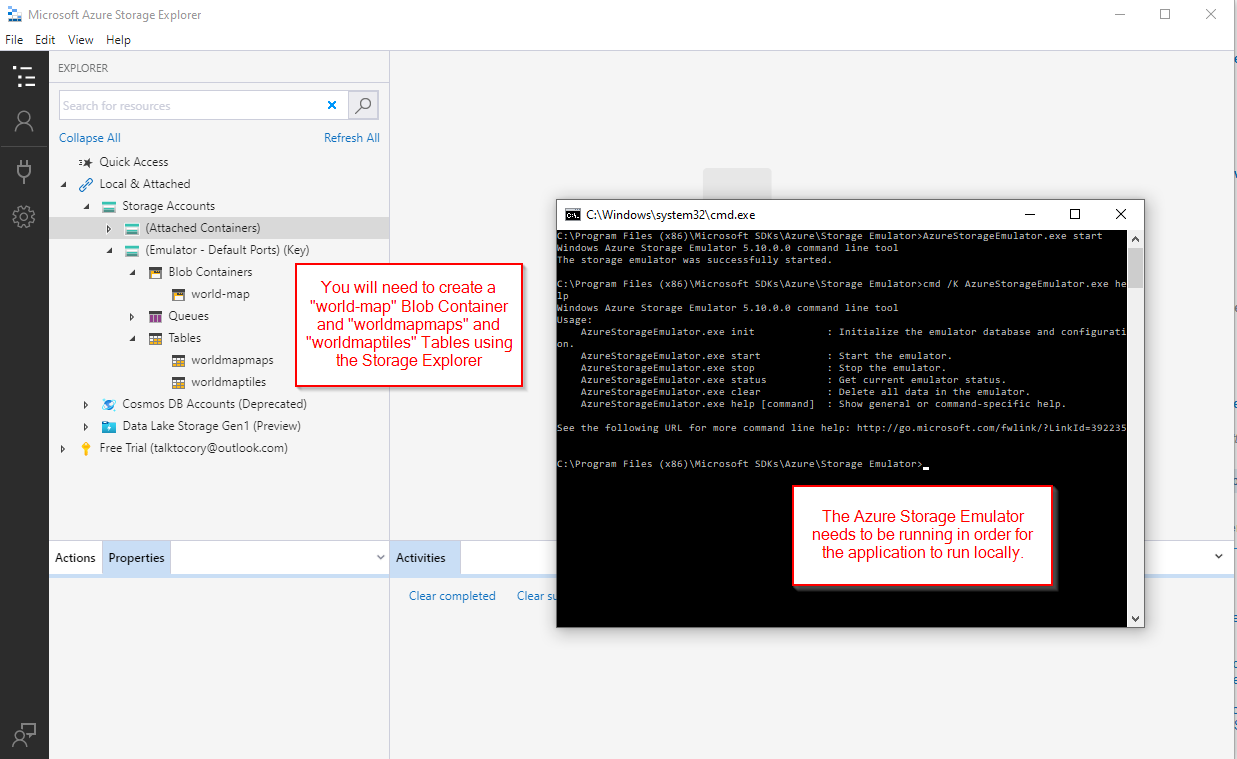
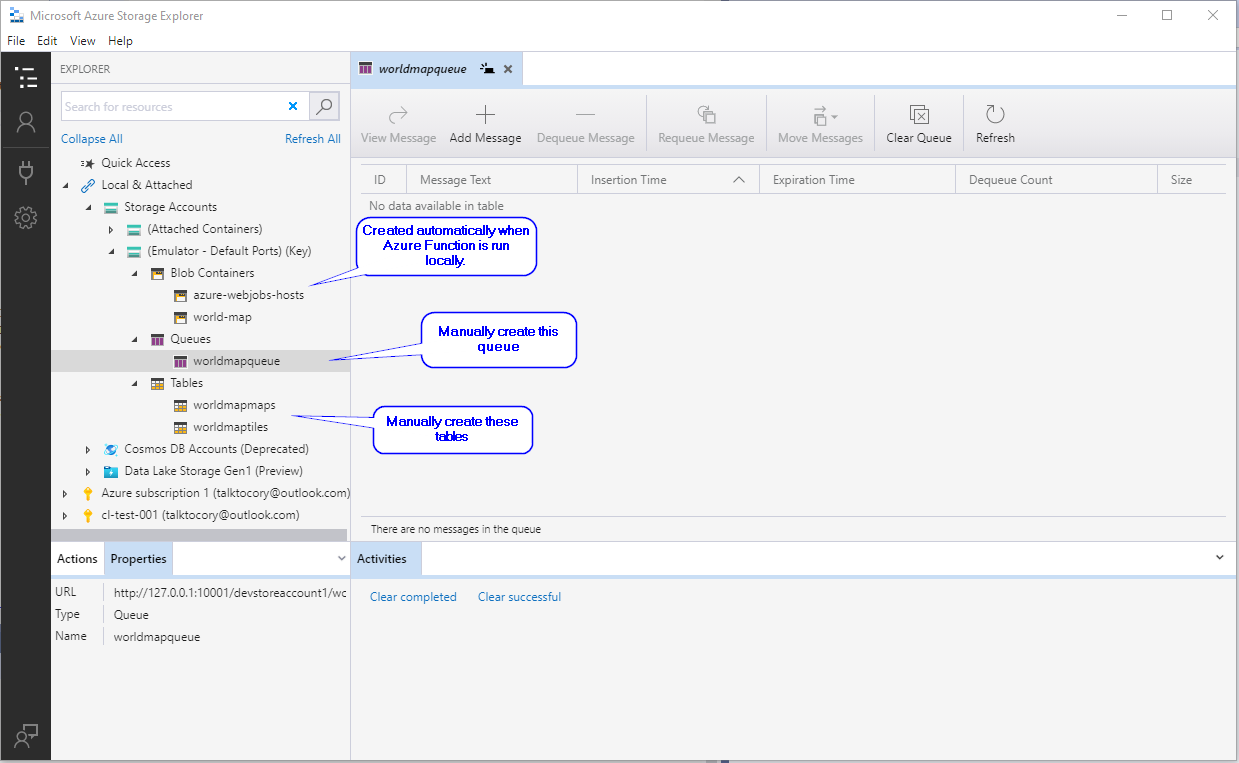
Queue is now being written to and Function is being triggered successfully.

diff --git a/src/CampaignKit.WorldMap.Core/Services/DefaultQueueStorageService.cs b/src/CampaignKit.WorldMap.Core/Services/DefaultQueueStorageService.cs
@@ -40,6 +40,17 @@ namespace CampaignKit.WorldMap.Core.Services
         /// </summary>
         private readonly ILogger _loggerService;
 
+        /// <summary>
+        /// Initializes a new instance of the <see cref="DefaultQueueStorageService"/> class.
+        /// </summary>
+        /// <param name="configuration">The configuration.</param>
+        /// <param name="loggerService">The logger service.</param>
+        public DefaultQueueStorageService(IConfiguration configuration, ILogger<DefaultTableStorageService> loggerService)
+        {
+            _configuration = configuration ?? throw new ArgumentNullException(nameof(configuration));
+            _loggerService = loggerService ?? throw new ArgumentNullException(nameof(loggerService));
+        }
+
         public async Task<bool> QueueMapForProcessing(Map map)
         {
             // Create a BlobServiceClient object which will be used to create a container client
@@ -49,7 +60,7 @@ namespace CampaignKit.WorldMap.Core.Services
             try
             {
                 var queueClient = queueServiceClient.GetQueueClient("worldmapqueue");
-                await queueClient.SendMessageAsync(map.MapId);
+                await queueClient.SendMessageAsync(System.Convert.ToBase64String(Encoding.UTF8.GetBytes(map.MapId)));
             }
             catch (Azure.RequestFailedException ex)
             {

diff --git a/README.md b/README.md
@@ -5,7 +5,11 @@ Service for managing world maps and associate them with Campaign Logger log entr
 # Development Environment
 
 ## SDKs
-- [.Net 5.0 SDK](https://dotnet.microsoft.com/download/visual-studio-sdks?utm_source=getdotnetsdk&utm_medium=referral)
+
+- CampaignKit.WorldMap.UI
+  - [.Net 5.0 SDK](https://dotnet.microsoft.com/download/visual-studio-sdks?utm_source=getdotnetsdk&utm_medium=referral)
+- CampaignKit.WorldMap.Core and CampaignKit.WorldMap.Functions
+  - [.Net 3.1 SDK](https://dotnet.microsoft.com/download/visual-studio-sdks?utm_source=getdotnetsdk&utm_medium=referral)
 
 ## Azure Tools
 - [Microsoft Azure Storage Explorer](https://azure.microsoft.com/en-us/features/storage-explorer/)
@@ -31,7 +35,7 @@ Service for managing world maps and associate them with Campaign Logger log entr
 ## Azure Storage Emulator
 The Azure Storage Emulator is used by the application to simulate reading/writing from Azure storage in the local environment.  See: [Running the Azure Storage Emulator](https://medium.com/oneforall-undergrad-software-engineering/setting-up-the-azure-storage-emulator-environment-on-windows-5f20d07d3a04)
 
-Setting up blob containers and tables.
+Setting up blob containers, message queues and tables.
 ![Azure Storage Emulator](./AzureStorageEmulator.png)
 
 Enabling public access to blobs.
@@ -41,20 +45,28 @@ Enabling public access to blobs.
 - Connection strings in `appsettings.Development.json` can be overwritten locally for testing against other sources.  Use the .Net Core User Secrets manager to make these overrides. See: [Working with User Secrets](https://docs.microsoft.com/en-us/aspnet/core/security/app-secrets?view=aspnetcore-5.0&tabs=windows).
 - To setup connection string overrides locally:
   - Open **Tools > NuGet Package Manager > NuGet Package Manager Console**
-  - `cd src\CampaignKit.WorldMap`
+  - `cd src\CampaignKit.WorldMap.UI`
   - `dotnet user-secrets init`
   - `dotnet user-secrets set "ConnectionStrings:AzureBlobStorage" "<YOUR CUSTOM CONNECTION STRING>"`
+  - `dotnet user-secrets set "ConnectionStrings:AzureQueueStorage" "<YOUR CUSTOM CONNECTION STRING>"`
   - `dotnet user-secrets set "ConnectionStrings:AzureTableStorageMaps" "<YOUR CUSTOM CONNECTION STRING>"`
   - `dotnet user-secrets set "ConnectionStrings:AzureTableStorageTiles" "<YOUR CUSTOM CONNECTION STRING>"`
   - `dotnet user-secrets set "AzureBlobBaseURL" "<YOUR CUSTOM AZURE BLOB BASE URL>"`
-- To convert an Azure SAS URI into a connection string:
+  - `cd ..\CampaignKit.WorldMap.Function`
+  - `dotnet user-secrets init`
+  - `dotnet user-secrets set "ConnectionStrings:AzureBlobStorage" "<YOUR CUSTOM CONNECTION STRING>"`
+  - `dotnet user-secrets set "ConnectionStrings:AzureQueueStorage" "<YOUR CUSTOM CONNECTION STRING>"`
+  - `dotnet user-secrets set "ConnectionStrings:AzureTableStorageMaps" "<YOUR CUSTOM CONNECTION STRING>"`
+  - `dotnet user-secrets set "ConnectionStrings:AzureTableStorageTiles" "<YOUR CUSTOM CONNECTION STRING>"`
+
+To convert an Azure SAS URI into a connection string:
   - Your URI will have the following format: `https://<ACCOUNT>.<blob/table>.core.windows.net/<RESOURCE>?<SAS String>`
   - Reformat it as follows: `<BlobEndpoint\TableEndpoint>=https://<ACCOUNT>.<blob/table>.core.windows.net/;SharedAccessSignature=<SAS String>`
   - Note that the `<RESOURCE>` and `?` elements were dropped.
 
 # Deployment
 
-Ensure that the startup command is set to `dotnet CampaignKit.WorldMap.dll --urls "http://+:8080"`
+Ensure that the startup command is set to `dotnet CampaignKit.WorldMap.UI.dll --urls "http://+:8080"`
 
 # Reference Material
 
